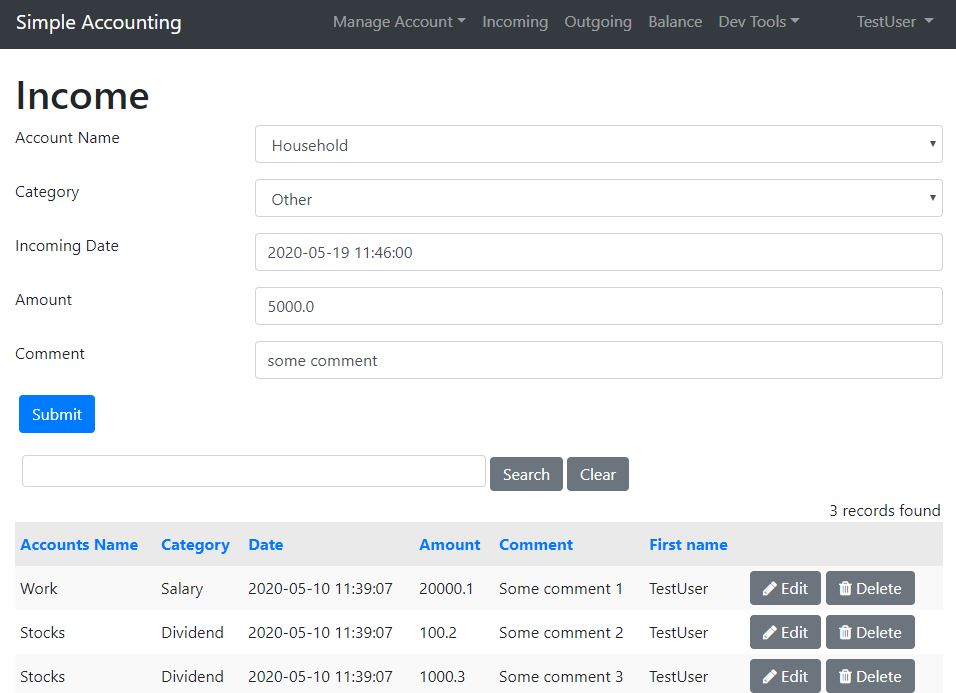
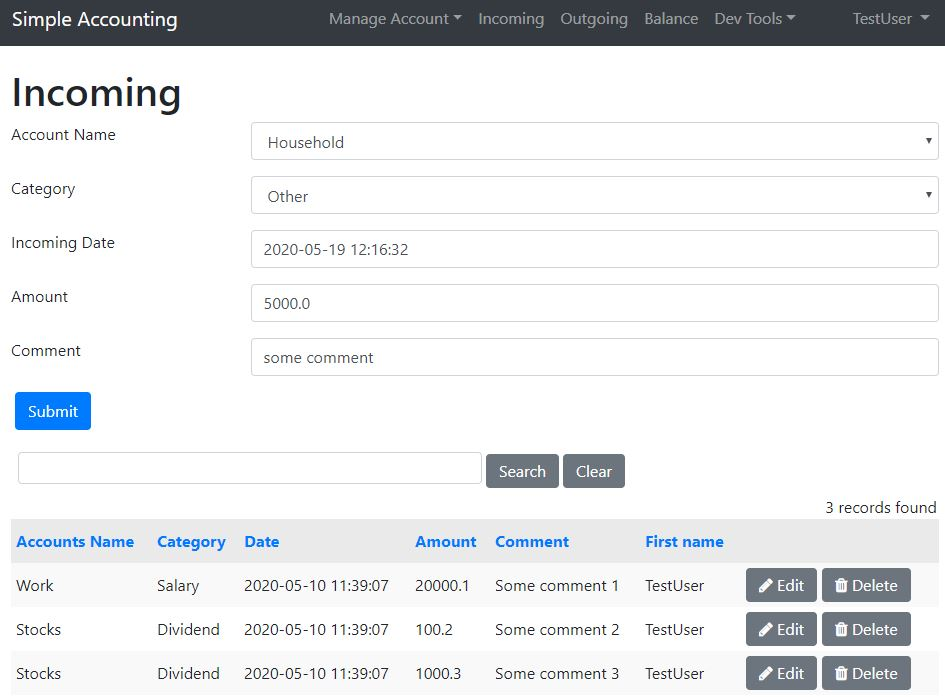
Quick fix: Changed title incoming html from Income to Incoming and updated incoming.jpg

diff --git a/applications/accounting/views/account/incoming.html b/applications/accounting/views/account/incoming.html
@@ -1,10 +1,10 @@
 <!DOCTYPE html>
 <html>
     <head>
-      <title>Income</title>
+      <title>Incoming</title>
     </head>
 <body>
     {{extend 'layout.html'}}
-    <h1>Income</h1>
+    <h1>Incoming</h1>
     {{=form}}
 </body>
